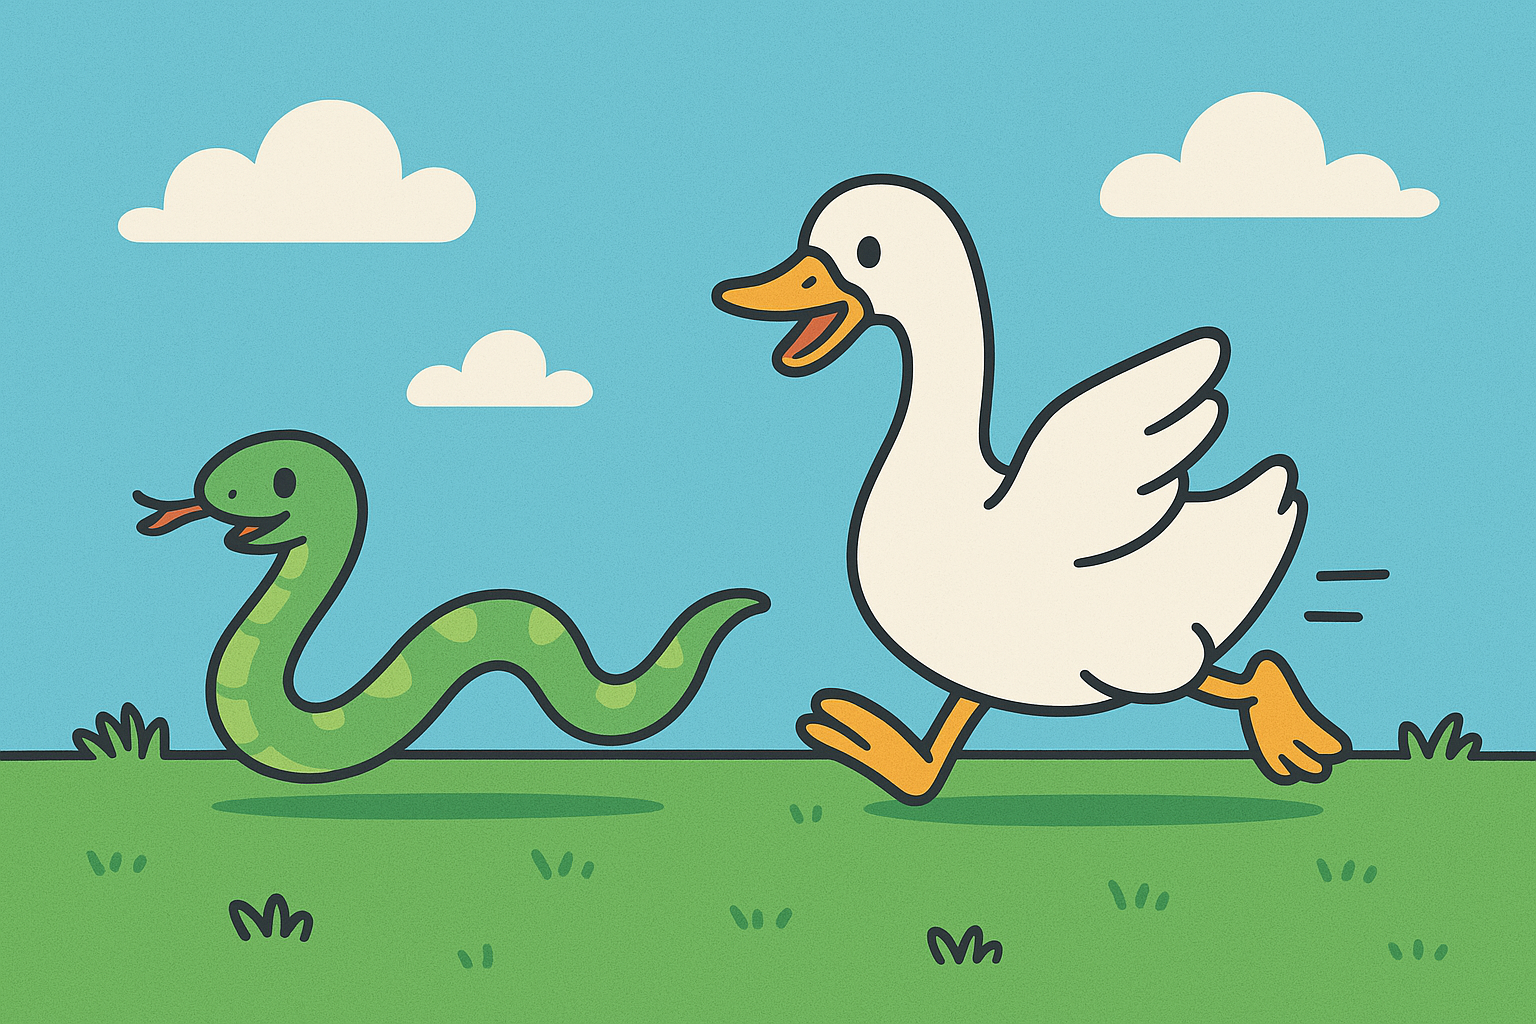
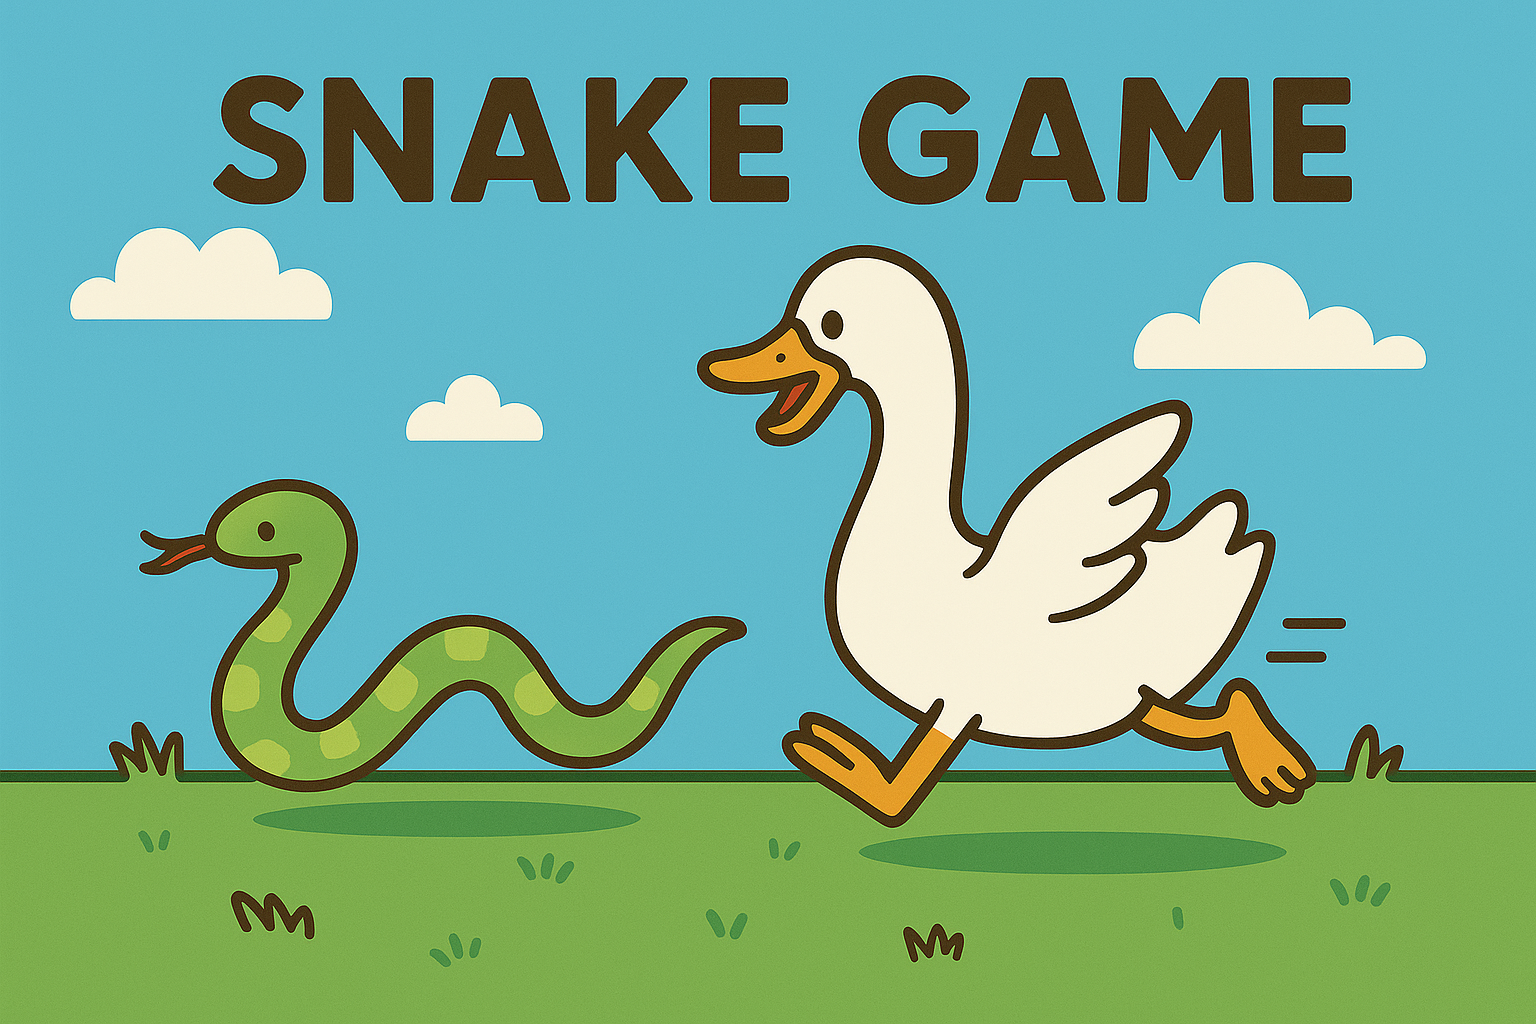
implements menu for minigames

diff --git a/src/main/java/it/unibo/goosegame/view/minigames/snake/SnakeView.java b/src/main/java/it/unibo/goosegame/view/minigames/snake/SnakeView.java
@@ -1,63 +1,70 @@
 package it.unibo.goosegame.view.minigames.snake;
+import javax.swing.JFrame;
 import javax.swing.JLabel;
 import javax.swing.JPanel;
 
-import edu.umd.cs.findbugs.annotations.SuppressFBWarnings;
 import it.unibo.goosegame.model.minigames.snake.api.SnakeModel;
 import it.unibo.goosegame.model.minigames.snake.impl.SnakeModelImpl;
 import it.unibo.goosegame.utilities.Position;
 
 import java.awt.Color;
+import java.awt.Dimension;
 import java.awt.Graphics;
 
 /**
  * The SnakeView class represents the view of the snake game.
  * It extends JPanel and is responsible for rendering the game state.
  */
-public class SnakeView extends JPanel {
+public class SnakeView  extends JFrame {
     private static final long serialVersionUID = 1L;
+    private static final int INIT_HEIGHT = 400;
+    private static final int INIT_WIDTH = 600;
     private final JLabel score;
-    private final transient SnakeModel model;
+    private final JPanel panelGame;
 
     /**
      * Constructor.
      * Initializes the SnakeView with a SnakeModel and sets the background color.
      * @param model the SnakeModel to be used for the view
      */
-    @SuppressFBWarnings(
-            value = "EI2",
-            justification = "Reference to mutable model is intentional in this class: need it to update the view."
-    )
     public SnakeView(final SnakeModel model) {
-        this.model = model;
-        super.setBackground(Color.BLACK);
+        this.panelGame = new JPanel() {
+
+            /**
+            * @inheritDoc
+            * This method is responsible for painting the components of the snake game.
+            * It draws the snake and the food on the panel.
+            */
+            @Override
+            protected void paintComponent(final Graphics g) {
+                super.paintComponent(g);
+                final int cellWidth = getWidth() / SnakeModelImpl.TABLE_WIDTH;
+                final int cellHeight = getHeight() / SnakeModelImpl.TABLE_HEIGHT;
+                final int cellSize = Math.min(cellWidth, cellHeight);
+
+                g.setColor(Color.GREEN);
+                for (final Position p : model.getSnakeBody()) {
+                    g.fillRect(p.x() * cellSize, p.y() * cellSize, cellSize, cellSize);
+                }
+
+                g.setColor(Color.RED);
+                g.fillRect(model.getFood().x() * cellSize, model.getFood().y() * cellSize, cellSize, cellSize);
+
+                score.setText("Score: " + model.getScore());
+            }
+        };
+        panelGame.setBackground(Color.BLACK);
         score = new JLabel("Score: " + model.getScore());
         score.setForeground(Color.WHITE);
-        super.add(score);
-    }
-
-    /**
-     * @inheritDoc
-     * This method is responsible for painting the components of the snake game.
-     * It draws the snake and the food on the panel.
-     */
-    @Override
-    protected void paintComponent(final Graphics g) {
-        super.paintComponent(g);
-        final int cellWidth = getWidth() / SnakeModelImpl.TABLE_WIDTH;
-        final int cellHeight = getHeight() / SnakeModelImpl.TABLE_HEIGHT;
-        final int cellSize = Math.min(cellWidth, cellHeight); 
-
-        // Draw snake
-        g.setColor(Color.GREEN);
-        for (final Position p : model.getSnakeBody()) {
-            g.fillRect(p.x() * cellSize, p.y() * cellSize, cellSize, cellSize);
-        }
-
-        // Draw food
-        g.setColor(Color.RED);
-        g.fillRect(model.getFood().x() * cellSize, model.getFood().y() * cellSize, cellSize, cellSize);
-
-        score.setText("Score: " + model.getScore());
+        panelGame.add(score);
+        super.setTitle(model.getName());
+        super.add(panelGame);
+        super.setDefaultCloseOperation(DO_NOTHING_ON_CLOSE);
+        super.setTitle(model.getName());
+        panelGame.setPreferredSize(new Dimension(INIT_WIDTH, INIT_HEIGHT));
+        super.pack();
+        super.setLocationRelativeTo(null);
+        super.setVisible(true);
+        super.setResizable(false); 
     }
 }

diff --git a/src/main/java/it/unibo/goosegame/view/minigames/snake/SnakeMenu.java b/src/main/java/it/unibo/goosegame/view/minigames/snake/SnakeMenu.java
@@ -1,11 +1,7 @@
 package it.unibo.goosegame.view.minigames.snake;
 
-import java.awt.event.ActionListener;
-
+import it.unibo.goosegame.controller.minigames.snake.SnakeController;
 import it.unibo.goosegame.view.general.impl.MinigameMenuImpl;
-
-//import it.unibo.goosegame.model.minigames.snake.impl.SnakeModelImpl;
-//import it.unibo.goosegame.view.MinigamesMenu.AbstractMinigameMenu;
 
 /**
  * The SnakeMenu class represents the menu for the snake game.
@@ -14,31 +10,41 @@ import it.unibo.goosegame.view.general.impl.MinigameMenuImpl;
 public class SnakeMenu extends MinigameMenuImpl {
 
     private static final long serialVersionUID = 1L;
+
     /**
-     * Constructor.
-     * @param imgPath the path of the image background
-     * @param title the title of the frame
-     * @param infoMsg the message to show in the instructions
-     * @param al the action listener for the start button
+     * Constructor for the SnakeMenu class.
      */
-    public SnakeMenu(final String imgPath, final String title, 
-        final String infoMsg, final ActionListener al) {
-        super(imgPath, title, infoMsg, al);
-        /*
-        SnakeModelImpl sm = new SnakeModelImpl();
-        super(imgPath, sm.getName(), infoMsg, al);
-
-        --Hypotetical main for Snake:
-
-         ActionListener al = e -> {
-            SnakeController.startGame();
-        };
-        new SnakeMenu("resources/backgroundSnake.png", "Snake Game", "Welcome to Snake Game!\\n" + 
-                        "Here's some instruction to play:\\n" + //
-                        "-Move the snake using < > ^ v buttons\\n" + //
-                        "-eat 15 apples and you win\\n" + //
-                        "-hit the walls and you lose", al);
-         */
+    public SnakeMenu() {
+        super(
+            "/backgroundSnake.png", 
+            "Snake Game", 
+            "Welcome to Snake Game\n"
+            + "Here's some instruction to play:\n"
+            + "-Move the snake using < > ^ v buttons\n"
+            + "-eat 15 apples and you win\n"
+            + "-hit the walls and you lose",
+            null
+        );
+        initialize();
     }
 
+    private void initialize() {
+        getStartButton().addActionListener(e -> {
+            new SnakeController();
+            //super.dispose();
+        });
+    }
+    /*
+     * public GameState initialize() {
+        getStartButton().addActionListener(e -> {
+            SnakeController c = new SnakeController(() -> {
+                super.dispose();
+            });
+            this.gameState = c.getGameState();
+            super.setVisible(false);
+        });
+
+        return gameState;
+    }
+    */
 }

diff --git a/src/main/java/it/unibo/goosegame/controller/minigames/snake/SnakeController.java b/src/main/java/it/unibo/goosegame/controller/minigames/snake/SnakeController.java
@@ -1,6 +1,5 @@
 package it.unibo.goosegame.controller.minigames.snake;
 
-import javax.swing.JFrame;
 import javax.swing.JOptionPane;
 import javax.swing.Timer;
 
@@ -10,7 +9,6 @@ import it.unibo.goosegame.model.minigames.snake.impl.SnakeModelImpl;
 import it.unibo.goosegame.utilities.Direction;
 import it.unibo.goosegame.view.minigames.snake.SnakeView;
 
-import java.awt.Dimension;
 import java.awt.event.ActionEvent;
 import java.awt.event.ActionListener;
 import java.awt.event.KeyAdapter;
@@ -21,10 +19,7 @@ import java.awt.event.KeyEvent;
  * It handles user input and updates the game state.
  */
 public class SnakeController {
-    private static final int INIT_HEIGHT = 400;
-    private static final int INIT_WIDTH = 600;
     private final SnakeModel model;
-    private final JFrame frame;
     private final SnakeView view;
     private final Timer timer;
 
@@ -35,18 +30,8 @@ public class SnakeController {
     public SnakeController() {
         model = new SnakeModelImpl();
         view = new SnakeView(model);
-        frame = new JFrame();
 
-        frame.add(view);
-        frame.setDefaultCloseOperation(JFrame.EXIT_ON_CLOSE);
-        frame.setTitle(model.getName());
-        view.setPreferredSize(new Dimension(INIT_WIDTH, INIT_HEIGHT));
-        frame.pack();
-        frame.setLocationRelativeTo(null);
-        frame.setVisible(true);
-        frame.setResizable(false); 
-
-        frame.addKeyListener(new KeyAdapter() {
+        view.addKeyListener(new KeyAdapter() {
             @Override
             public void keyPressed(final KeyEvent e) {
                 switch (e.getKeyCode()) {
@@ -69,11 +54,10 @@ public class SnakeController {
                 if (model.isOver() || model.checkWin()) {
                     timer.stop();
                     JOptionPane.showMessageDialog(null, model.getGameState() == GameState.WON ? "You win!" : "You lose...");
-                    frame.dispose();
+                    view.dispose();
                 }
             }
         });
         timer.start();
     }
 }
-

diff --git a/src/main/java/it/unibo/goosegame/view/minigames/memory/MemoryMenu.java b/src/main/java/it/unibo/goosegame/view/minigames/memory/MemoryMenu.java
@@ -1,5 +1,6 @@
 package it.unibo.goosegame.view.minigames.memory;
 
+import it.unibo.goosegame.controller.minigames.memory.MemoryController;
 //import it.unibo.goosegame.controller.minigames.memory.MemoryController;
 import it.unibo.goosegame.view.general.impl.MinigameMenuImpl;
 
@@ -14,22 +15,20 @@ public class MemoryMenu extends MinigameMenuImpl {
      */
     public MemoryMenu() {
         super(
-            "/nomeImmagine.png", 
-            "Memory", 
-            "informazioni di gioco da inserire",
+            "/backgroundMemory.png", 
+            "Memory Game", 
+            "Welcome to Memory Game\n"
+            + "Here's some instruction to play:\n"
+            + "-Find the couples beyond the cards\n"
+            + "-Find them all and you win\n",
             null
         );
-        //getStartButton().addActionListener(e -> new MemoryController());
+        initialize();
+    }
 
-        /*
-         --Hypothetical Memory menu:
-        ActionListener al = e -> {
-            MemoryController.startGame();
-        };
-        new MemoryMenu("resources/memoryBackground.png", "Memory Game", "Welcome to Memory Game\n" + 
-                        Here's some instruction to play:\n" + //
-                        "-Find the couples beyond the cards\n" + //
-                        "-find them all and you win\n", al);
-         */
+    private void initialize() {
+        getStartButton().addActionListener(e -> {
+            new MemoryController();
+        });
     }
 }

diff --git a/src/main/java/it/unibo/goosegame/model/minigames/snake/impl/SnakeModelImpl.java b/src/main/java/it/unibo/goosegame/model/minigames/snake/impl/SnakeModelImpl.java
@@ -22,9 +22,7 @@ public class SnakeModelImpl implements SnakeModel {
      * Height of the game table.
      */
     public static final int TABLE_HEIGHT = 20;
-    /**
-     * The score needed to win the game.
-     */
+
     private static final int WIN_SCORE = 15;
     private List<Position> snakeBody;
     private Position food;
